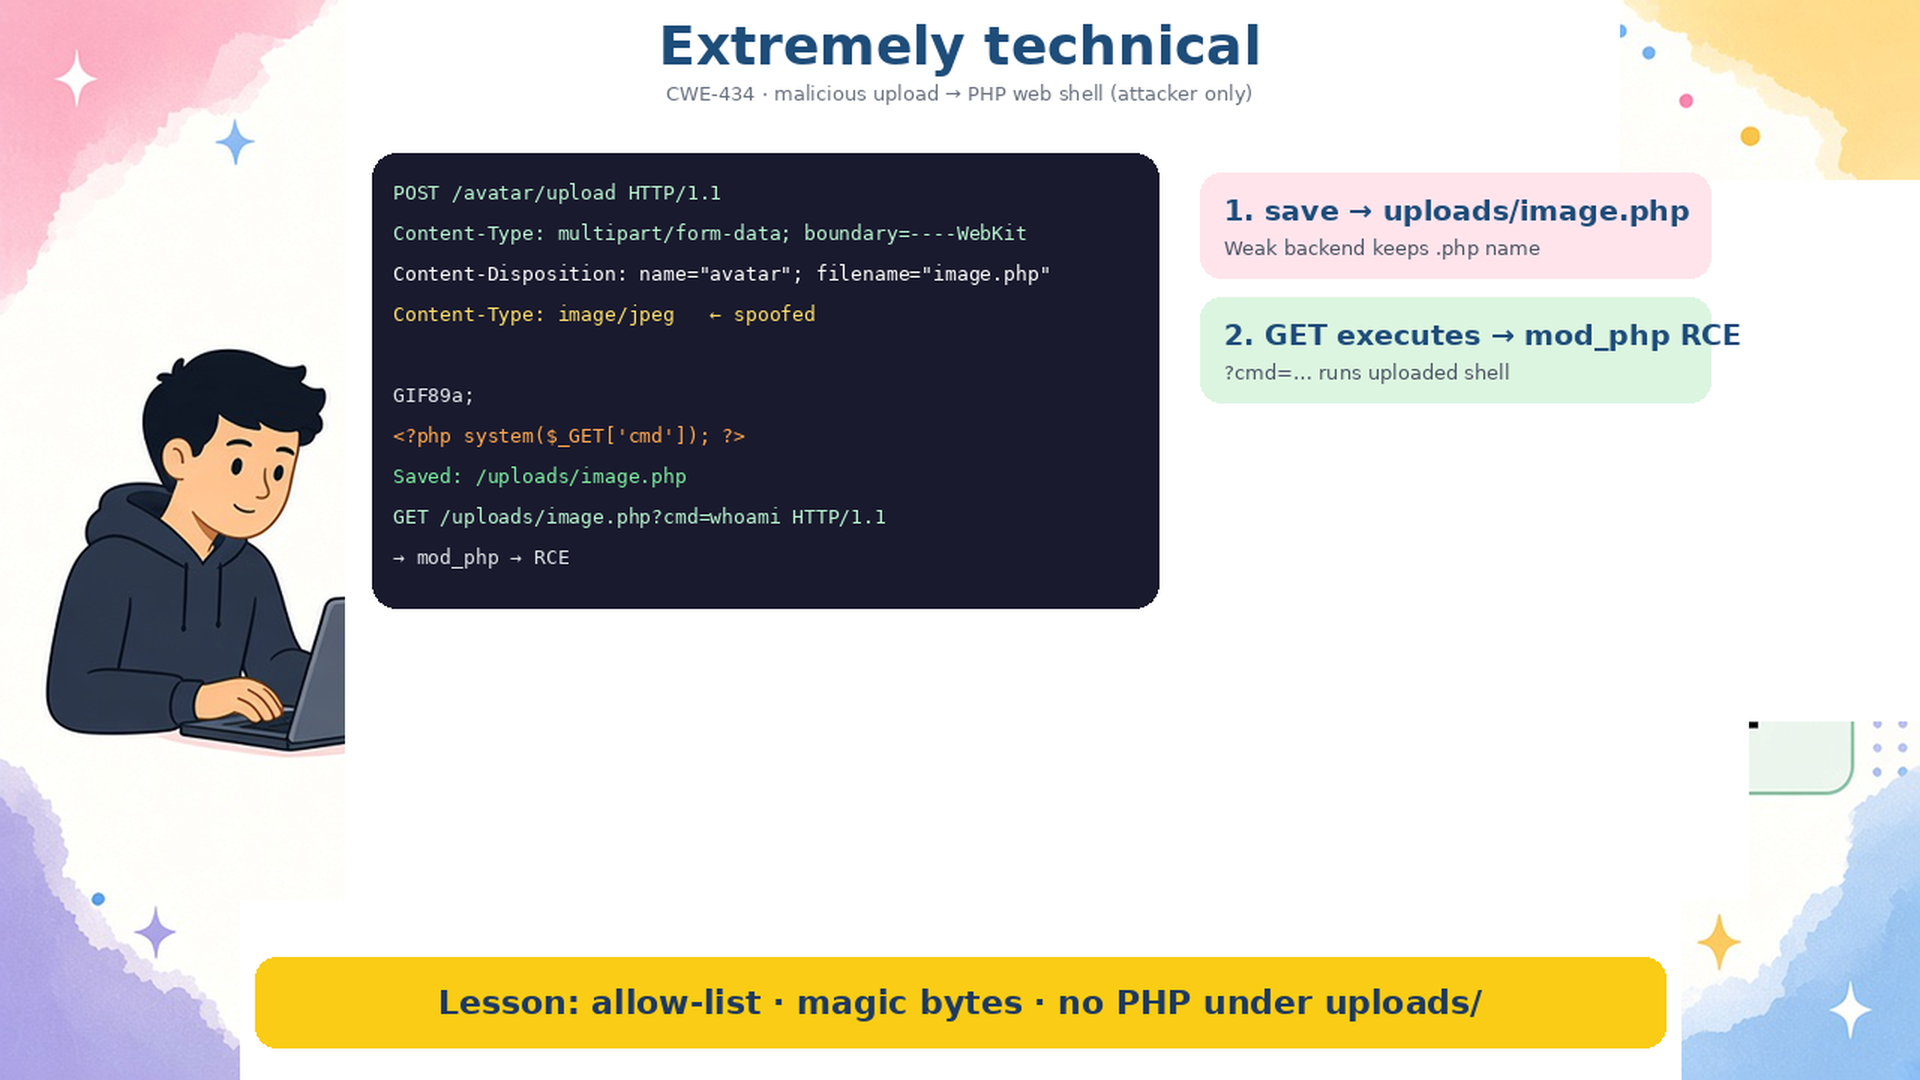
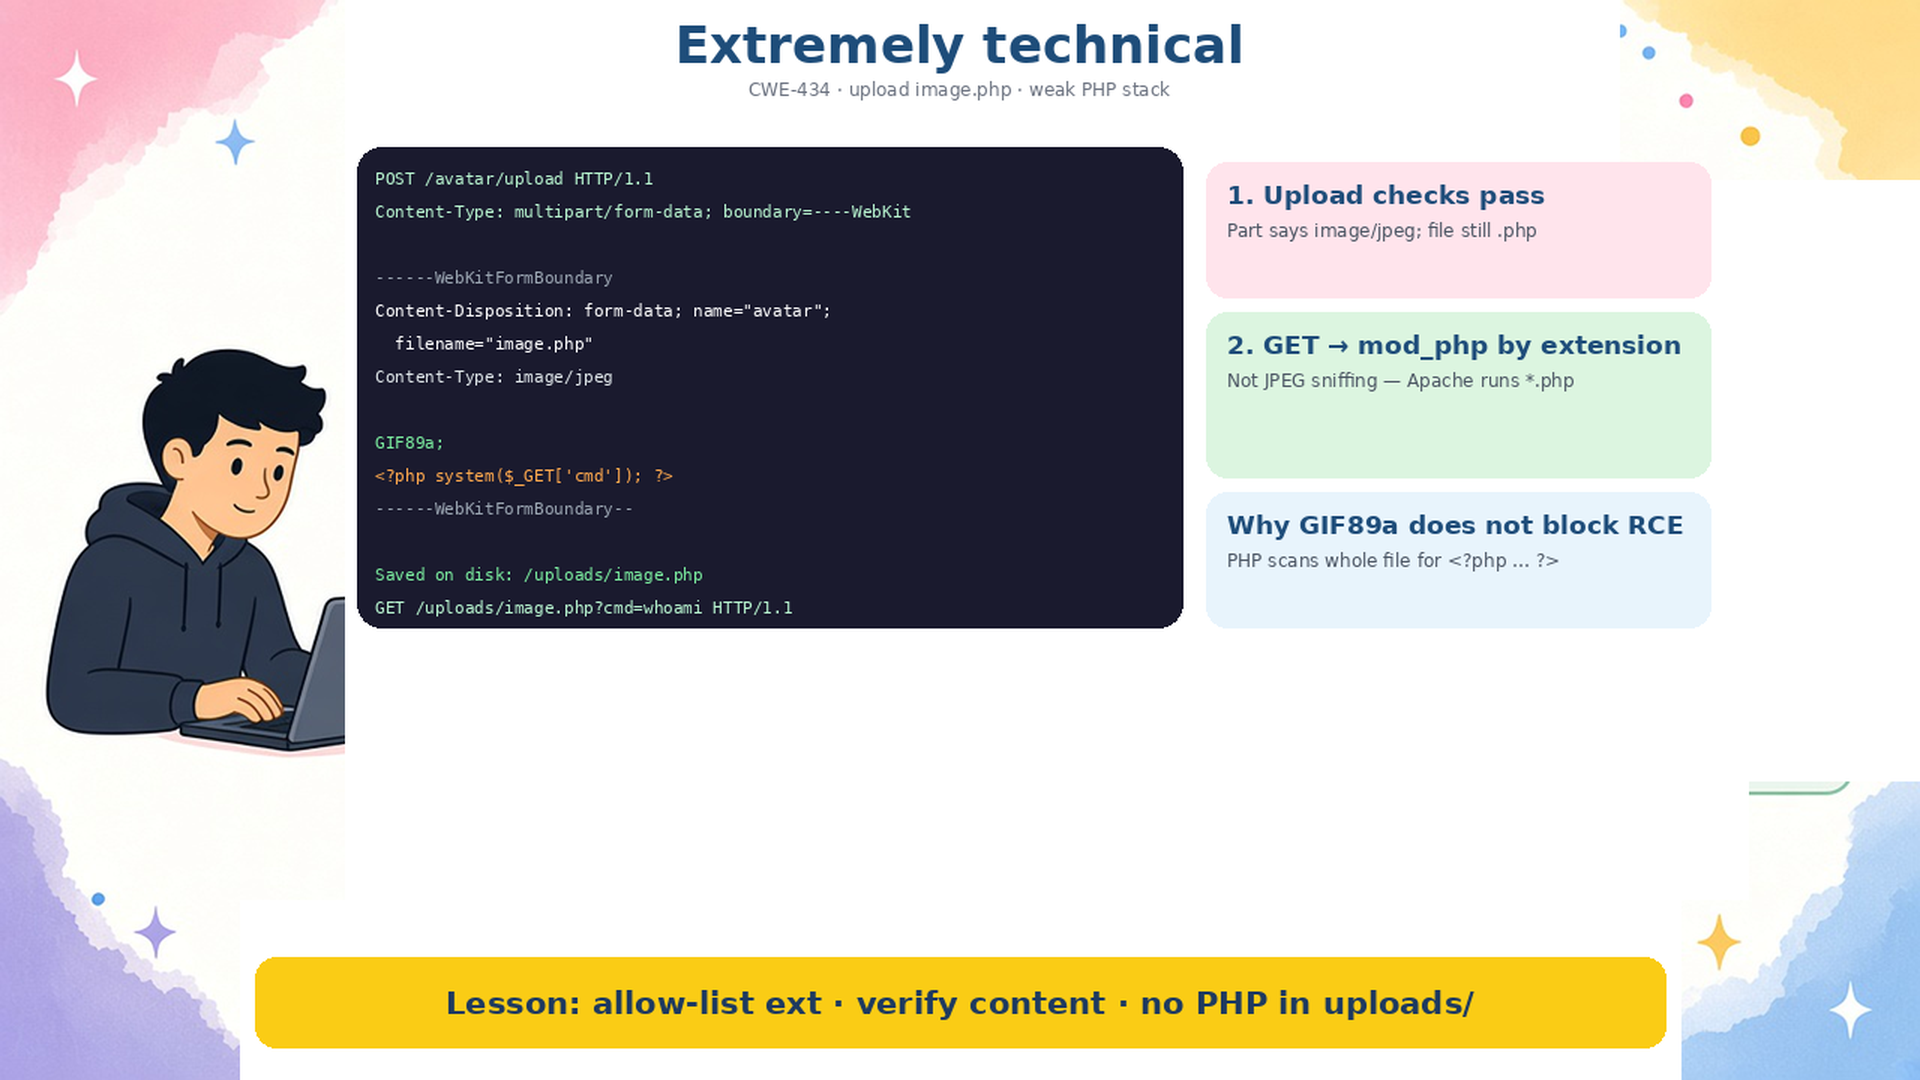
Clarify hist-01 HTTP and why GIF89a does not stop PHP RCE

diff --git a/FileUpload/presentation/historical-cases/README.md b/FileUpload/presentation/historical-cases/README.md
@@ -19,9 +19,9 @@ Each case has a PNG in [`illustrations/`](illustrations/). Case **#1** uses **tw
 
 **Story (correct model — no Burp, no victim):**
 
-1. **Attacker** uploads **`image.php`** (web shell inside), sets **`Content-Type: image/jpeg`** in the multipart part.
-2. **Weak backend** checks only the header (or extension allow-list is missing) → saves **`/uploads/image.php`**.
-3. Attacker calls **`GET /uploads/image.php?cmd=…`** → **mod_php** runs the file → **RCE**.
+1. **Attacker** uploads a file whose body is **`GIF89a;` + PHP shell**, multipart part labeled **`Content-Type: image/jpeg`**, **`filename="image.php"`**.
+2. **Weak backend** accepts the upload (header and/or weak magic-byte check) and writes **`/uploads/image.php`** unchanged.
+3. Attacker calls **`GET /uploads/image.php?cmd=…`** → web server runs **`.php`** via **`mod_php`** → interpreter hits **`<?php … ?>`** in the file → **RCE** (leading `GIF89a` is irrelevant to that step).
 
 **Impact:**
    - Read secrets from disk (config, keys, `secret` files)
@@ -31,18 +31,24 @@ Each case has a PNG in [`illustrations/`](illustrations/). Case **#1** uses **tw
 
 **Technical slide:** [`hist-01-php-shell-technical.png`](illustrations/hist-01-php-shell-technical.png) (deck) or [`hist-01-php-shell-technical-720p.png`](illustrations/hist-01-php-shell-technical-720p.png) — English, watercolor layout like the deck “Extremely technical” slide; full POST multipart + saved path + GET.
 
-**Two Content-Types (both appear “valid” syntactically):**
+**HTTP (what the slide shows):**
 
-| Header | Value | Role |
-|--------|--------|------|
-| Request | `multipart/form-data; boundary=…` | Correct for file upload |
-| Part | `image/jpeg` | **Spoofed** — attacker lies; backend must not trust it |
+| Layer | Header / line | Meaning |
+|--------|----------------|---------|
+| Request | `Content-Type: multipart/form-data; boundary=…` | Normal browser upload |
+| Part | `Content-Disposition: … filename="image.php"` | **Real** name on disk if the app is naive |
+| Part | `Content-Type: image/jpeg` | Declares “this part is JPEG” — a dumb app may **only** look here |
+| Part body | `GIF89a;` then `<?php … ?>` | Bytes saved **as-is** into `uploads/image.php` |
 
-**Body of the file part:** optional `GIF89a;` + `<?php system($_GET['cmd']); ?>`
+**Why execution does not care about `GIF89a` at the start**
+
+1. **On upload**, `GIF89a` is optional. It exists to fool checks that read **only the first few bytes** (“magic number”) or trust the part’s `Content-Type: image/jpeg`. It is **not** what makes PHP run later.
+2. **On `GET`**, Apache (typical lab stack) maps **`*.php`** to the PHP engine (**`mod_php`**). That decision uses the **URL path / file extension**, not “does this look like JPEG?”.
+3. **Inside the file**, PHP does **not** require `<?php` at byte 0. The interpreter scans the file and **executes any `<?php … ?>` block**. Bytes before that (`GIF89a;`) are outside PHP tags — they may be echoed as output, but the shell still runs.
 
 **Saved as (weak backend):** `uploads/image.php` from `filename="image.php"` in Content-Disposition.
 
-**Trigger:** `GET /uploads/image.php?cmd=whoami` → `mod_php` → RCE.
+**Trigger:** `GET /uploads/image.php?cmd=whoami` → handler for `.php` → `system('whoami')` → RCE.
 
 **Real history (important):** This is **not** a single newspaper headline like TimThumb 2011 — it is the **default failure mode** of **PHP + Apache shared hosting** from the **2000s–2010s** until today on misconfigured sites. Pentesters and criminals repeatedly found: avatar/CV/gallery upload → file saved under the web root → **mod_php runs `.php`**. [PortSwigger Web Security Academy](https://portswigger.net/web-security/file-upload) built its **RCE upload labs** on this exact chain (e.g. reading `/home/carlos/secret`). Classified under **CWE-434** / OWASP “Unrestricted File Upload”. Your **Node shop lab** intentionally does **not** execute uploads — this case explains **server-side** impact when the stack **does** run PHP.
 
